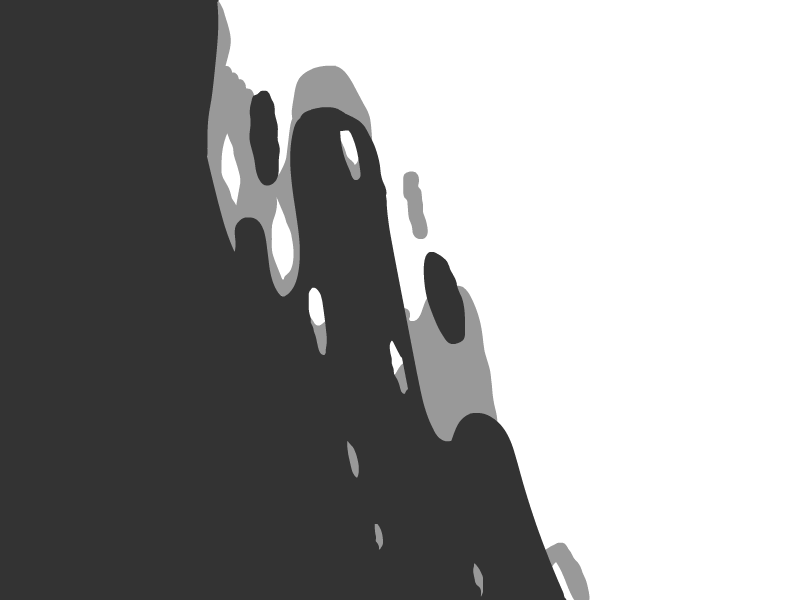
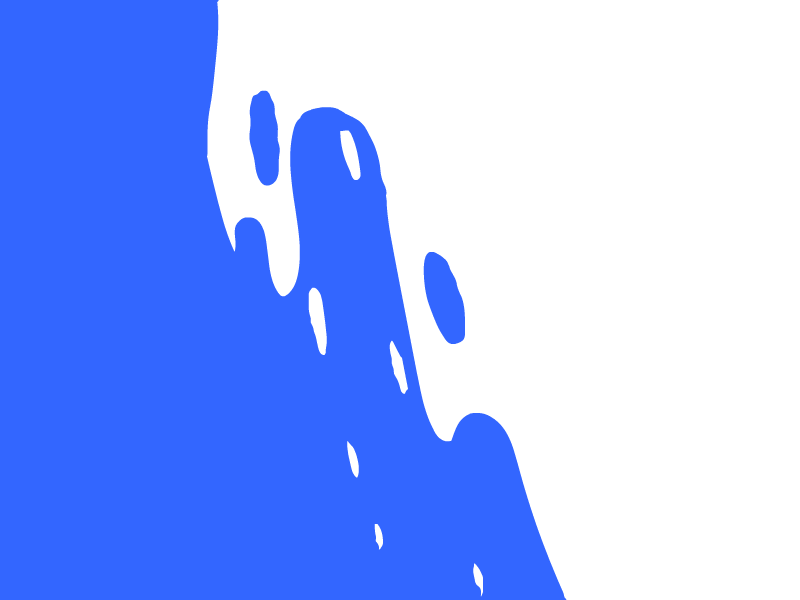
демо раскрашен

diff --git a/front/src/Field.jsx b/front/src/Field.jsx
@@ -998,7 +998,7 @@ function Field() {
             let result = await promise;
             i++;
         }
-        demo_ref.current.style.transition = '1.6s';
+        demo_ref.current.style.transition = '0.1s';
         demo_ref.current.style.opacity = '0';
     }
 
